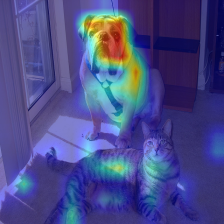
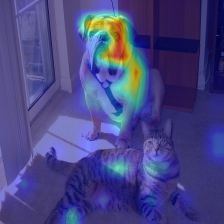
Remove negative attentions

diff --git a/vit_grad_rollout.py b/vit_grad_rollout.py
@@ -11,7 +11,6 @@ def grad_rollout(attentions, gradients, discard_ratio):
     with torch.no_grad():
         for attention, grad in zip(attentions, gradients):                
             weights = grad
-            weights[weights < 0] = 0
             attention_heads_fused = (attention*weights).mean(axis=1)
             attention_heads_fused[attention_heads_fused < 0] = 0
 

diff --git a/Readme.md b/Readme.md
@@ -37,7 +37,7 @@ otherwise Gradient Attention Rollout will be used.
 
 Notice that by default, this uses the 'Tiny' model from [Training data-efficient image transformers & distillation through attention](https://arxiv.org/abs/2012.12877)
  hosted on torch hub.
- 
+
 ##Where did the Transformer pay attention to in this image?##
 | Image | Vanilla Attention Rollout  |  With discard_ratio+max fusion |
 | -------------------------|-------------------------|------------------------- |
@@ -81,7 +81,7 @@ and mask out negative gradients, to keep only attention that contributes to the 
 ![](examples/both_grad_rollout_243_0.900_max.png) ![](examples/both_grad_rollout_282_0.900_max.png)
 
 ### Where does the Transformer see a Musket dog (category 161) and a Parrot (category 87):
-![](examples/grad_rollout_161_0.900_max.png) ![](examples/dogbird_grad_rollout_87_0.900_max.png)
+![](examples/dogbird_grad_rollout_161_0.900_max.png) ![](examples/dogbird_grad_rollout_87_0.900_max.png)
 
 ## References
 - [Quantifying Attention Flow in Transformers](https://arxiv.org/abs/2005.00928)
